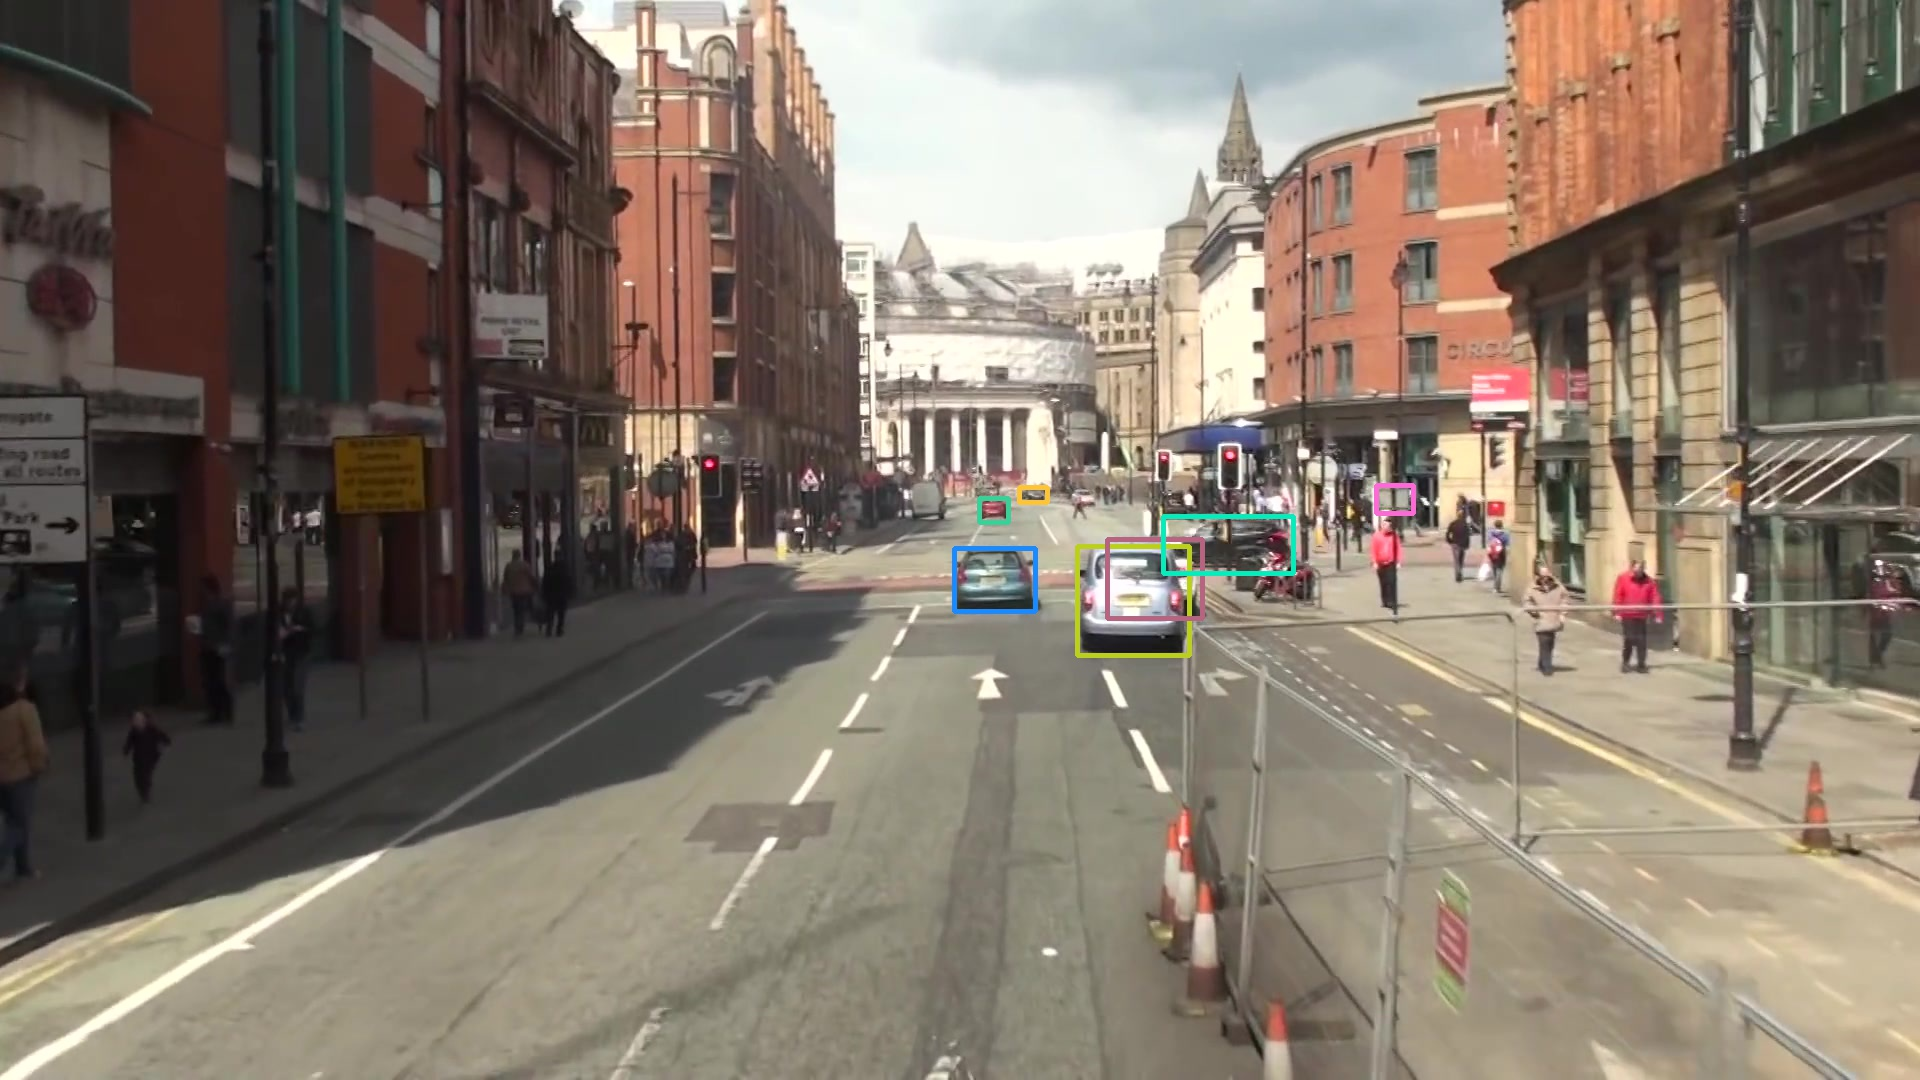
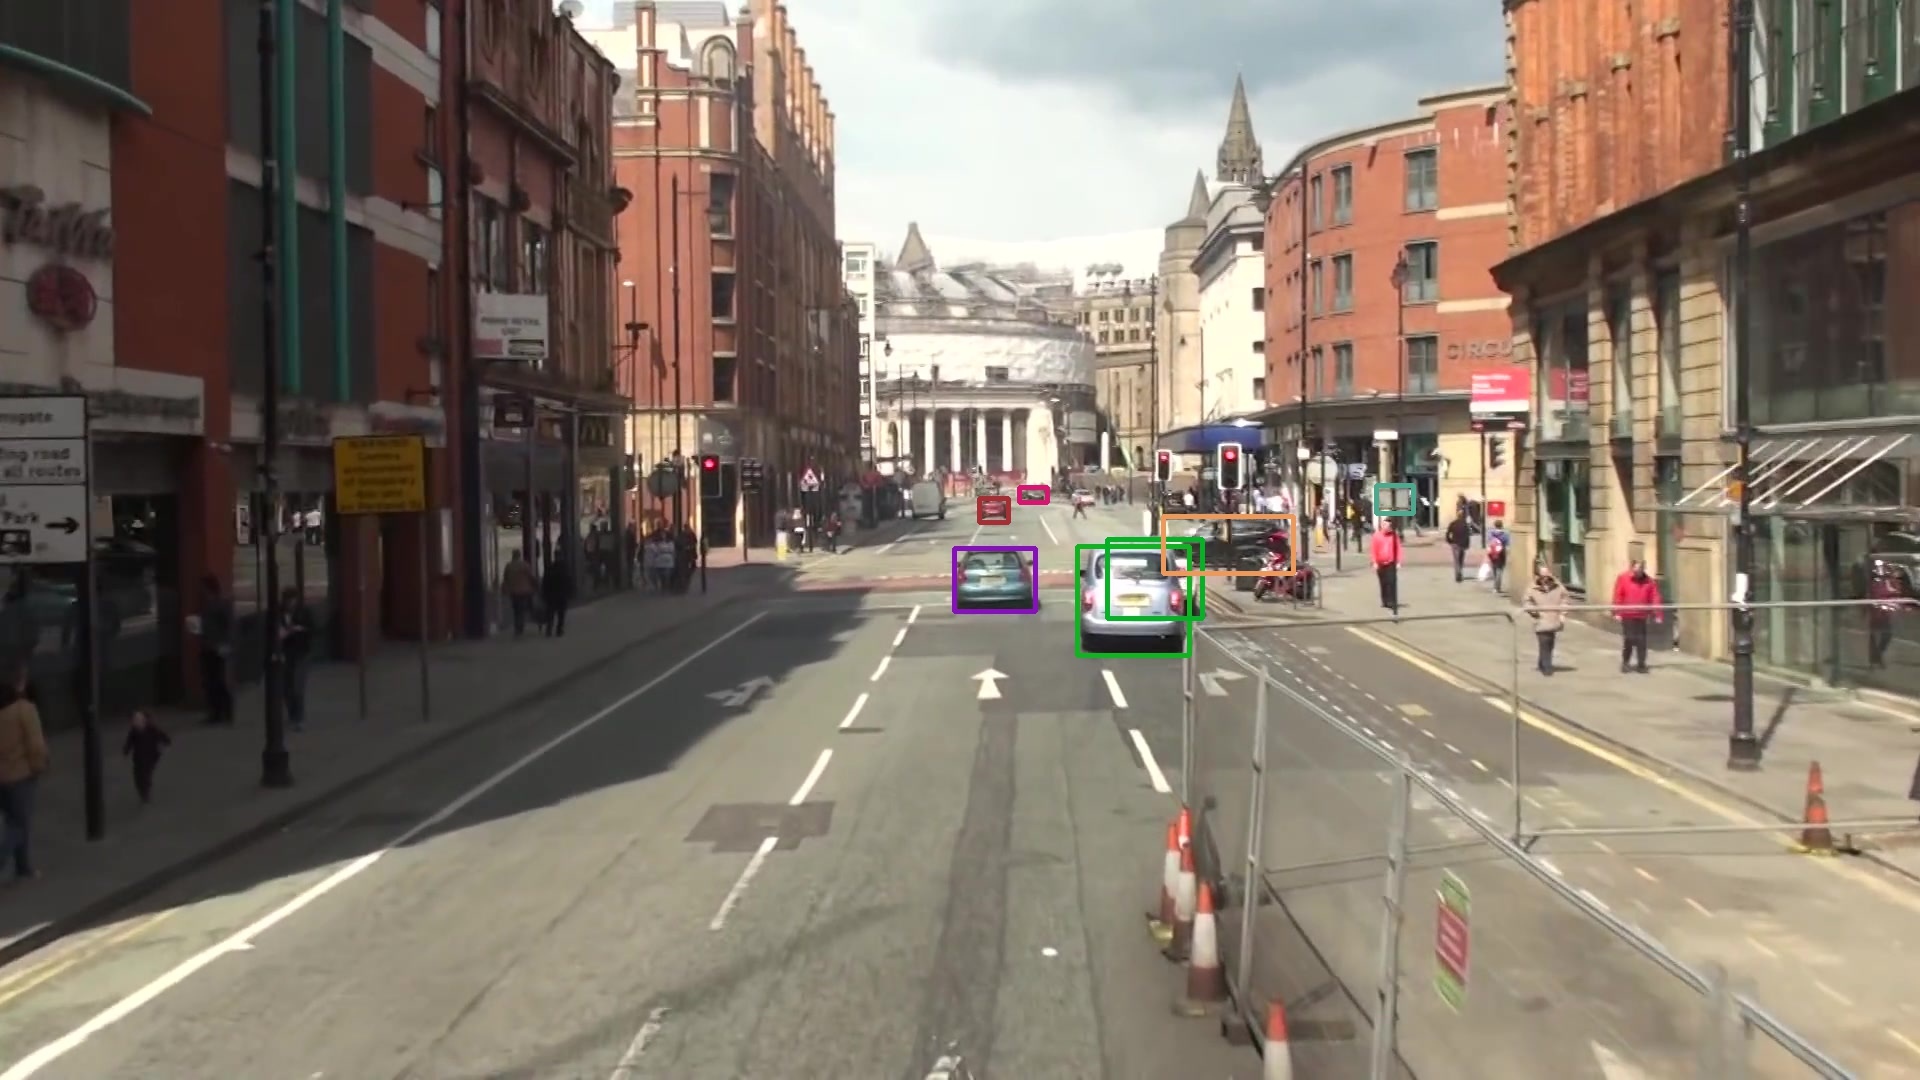
added the matrix steps

Changed region(s): [[0.5, 0.4278, 0.6875, 0.6111], [0.7188, 0.4278, 0.75, 0.4889], [0.4688, 0.5194, 0.5, 0.55]]

diff --git a/main.py b/main.py
@@ -6,7 +6,6 @@ import os
 import logging
 from random import randint
 
-
 #variables
 files = sorted(os.listdir('img1'))
 dict = {}
@@ -16,6 +15,28 @@ new_path = "img2"
 color_dict = {}
 img_bounding_boxes = {}
 
+#Object for a bounding
+class Box(object):
+    x1 = 0.
+    x2 = 0.
+    y1 = 0.
+    y2 = 0.
+
+   # constructor for our box 
+    def __init__(self, x, y, h, l):
+        #left
+        self.x1 = x
+        #right
+        self.x2 = x + l
+        #bottom
+        self.y1 = y
+        #top
+        self.y2 = y + h
+
+# function to create a box
+def make_box(x, y, h,l):
+    box = Box(x, y, h , l)
+    return box
 #create temporary matrix to be used in the loop 
 tmp_matrix = []
 tmp_img1 = []
@@ -40,12 +61,13 @@ for i in range(len(files)):
             y1 = int(rectangle_englobantes[j][3])
             l1 = int(rectangle_englobantes[j][4])
             h1 = int(rectangle_englobantes[j][5])
-            if h1 <= l1 : 
-                if files[i] not in img_bounding_boxes : 
-                    img_bounding_boxes[files[i]] = [(x1,y1,l1,h1)]
-                else : 
-                    img_bounding_boxes[files[i]] += [(x1,y1,l1,h1)]
-	
+            if h1 <= l1 and files[i] not in img_bounding_boxes : 
+                img_bounding_boxes[files[i]] = [make_box(x1,y1,l1,h1)]
+            elif h1 <= l1: 
+                img_bounding_boxes[files[i]] += [make_box(x1,y1,l1,h1)]
+            elif files[i] not in img_bounding_boxes :
+                img_bounding_boxes[files[i]] = []
+                
 # function for getting image from dict
 def get_image(img_num)  :
     return cv.imread(dict[img_num])
@@ -53,6 +75,11 @@ def get_image(img_num)  :
 # generate random color 
 def generate_color() : 
     return [randint(0, 255), randint(0, 255), randint(0, 255)]
+
+# function for calculating intersection over union
+def calculate_iou(box1, box2) : 
+    return 0
+
 
 #create new folder for images
 try:
@@ -86,10 +113,24 @@ cv.imwrite('img2/'+rectangle_englobantes[1][0]+'.jpg', img)
 
 
 
+#begin iou calculations 
+for i in range(len(files) - 1) :
+    column = []
+    # hold file names for images to examine
+    img1 = files[i]
+    img2 = files[i + 1]
+    # get bounding box information
+    box_list1 = img_bounding_boxes[img1]
+    box_list2 = img_bounding_boxes[img2]
+    # cycle through bounding boxes for f(x) and f(x + 1)
+    for b in box_list1 :
 
+        row = []
+        for k in box_list2 :
+            
+            break
 
-
-
+            
 
 
 # curr = 1
